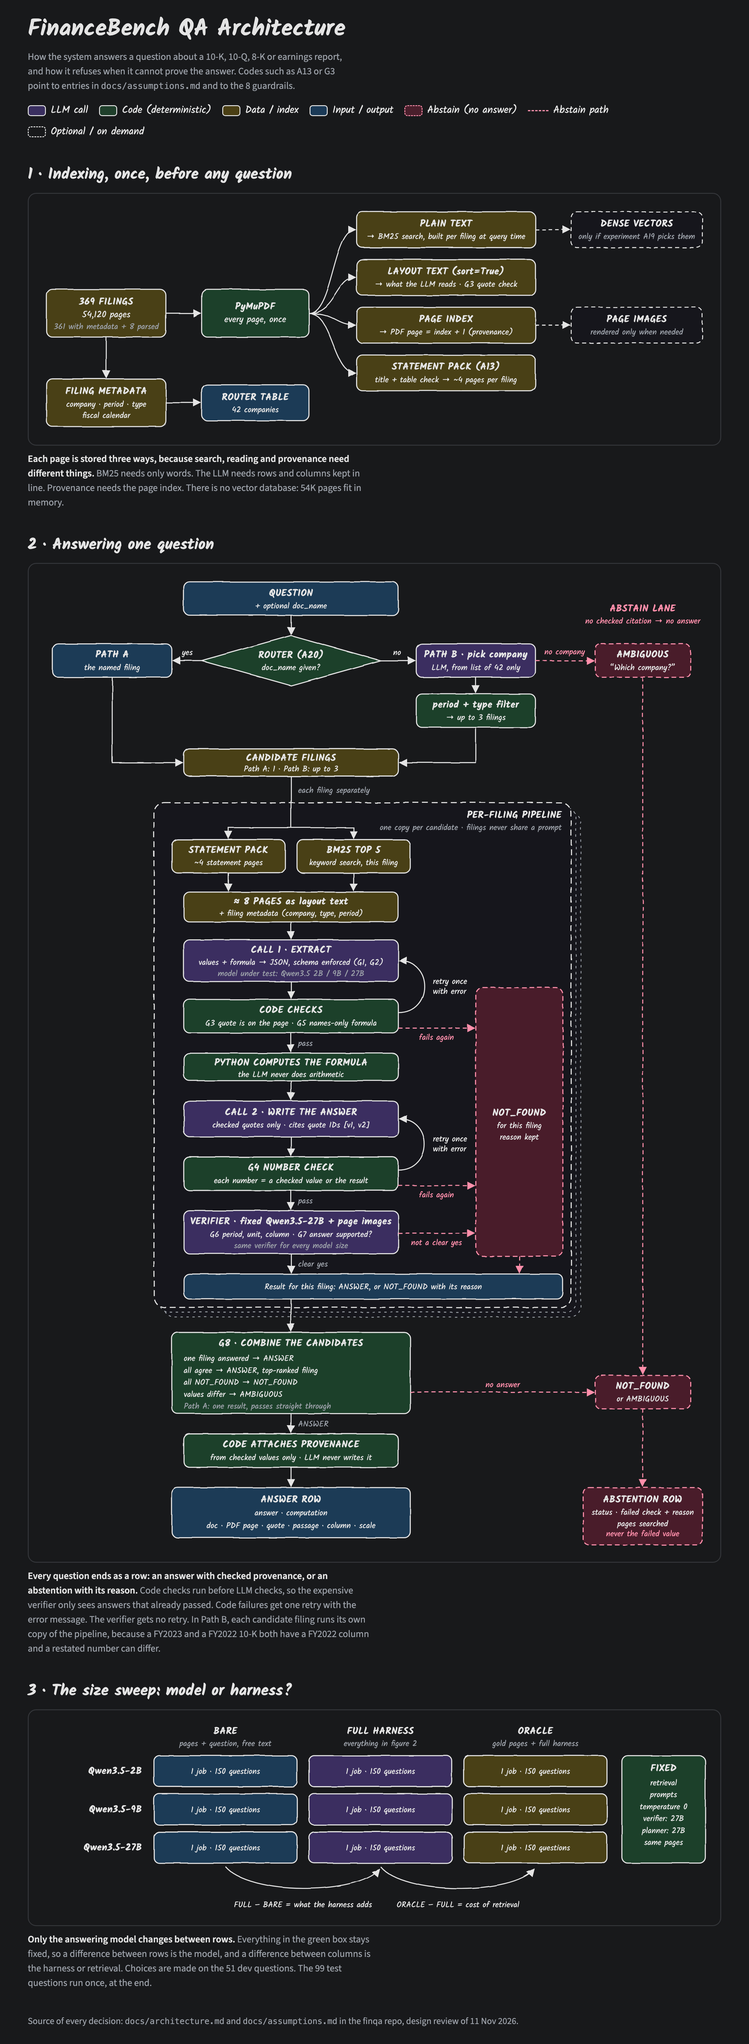
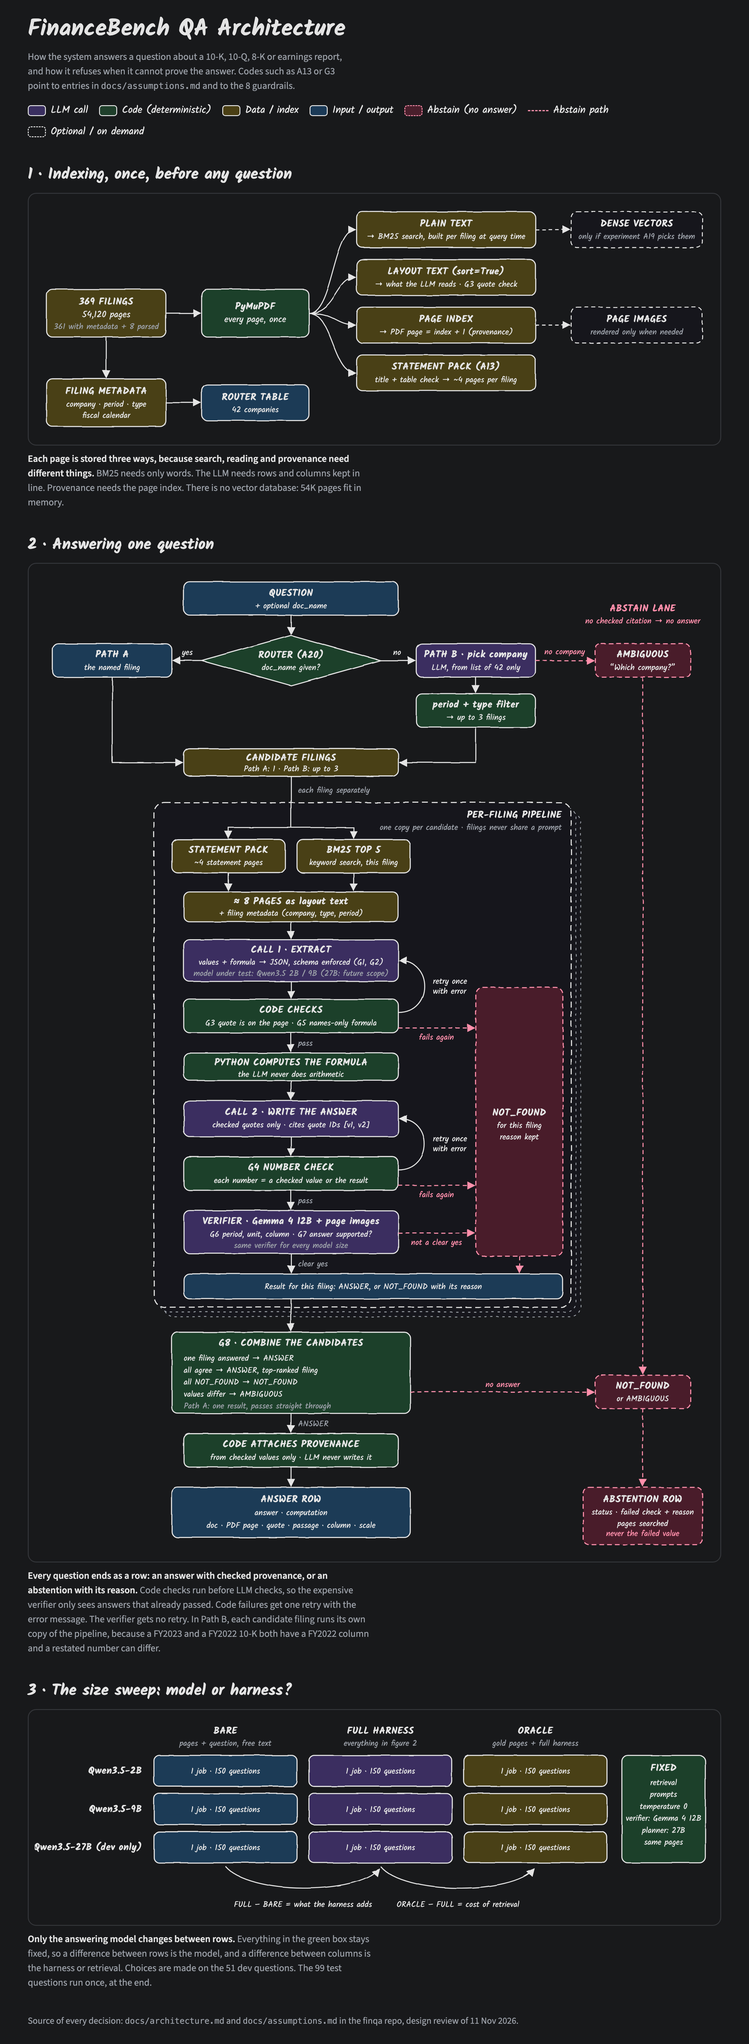
README with full results, 2-page write-up, diagram updated for Gemma verifier and 2B/9B scope

diff --git a/docs/diagrams/architecture.html b/docs/diagrams/architecture.html
@@ -146,7 +146,7 @@ code{font-family:ui-monospace,SFMono-Regular,Menlo,monospace;font-size:.9em}
   <figure>
     <h2>2 · Answering one question</h2>
     <div class="scroll">
-    <svg class="dia" viewBox="0 0 1140 1652" role="img" aria-label="A question goes through the router to up to three candidate filings. Each filing runs its own pipeline: retrieval, call 1 extracts values and a formula, code checks quotes and the formula, Python computes, call 2 writes the answer, code checks the numbers, a fixed 27B verifier checks against page images. Any failure leads to NOT_FOUND for that filing. G8 combines the filings. Code attaches the provenance to an answer. Abstentions produce a row with the reason and never the failed value.">
+    <svg class="dia" viewBox="0 0 1140 1652" role="img" aria-label="A question goes through the router to up to three candidate filings. Each filing runs its own pipeline: retrieval, call 1 extracts values and a formula, code checks quotes and the formula, Python computes, call 2 writes the answer, code checks the numbers, a fixed verifier checks against page images. Any failure leads to NOT_FOUND for that filing. G8 combines the filings. Code attaches the provenance to an answer. Abstentions produce a row with the reason and never the failed value.">
       <defs>
         <filter id="rg2" x="-3%" y="-3%" width="106%" height="106%"><feTurbulence type="fractalNoise" baseFrequency="0.022" numOctaves="2" seed="7"/><feDisplacementMap in="SourceGraphic" scale="2.6"/></filter>
         <marker id="ak2" viewBox="0 0 10 10" refX="9" refY="5" markerWidth="8" markerHeight="8" orient="auto-start-reverse"><path class="mk" d="M0,0 L10,5 L0,10 z"/></marker>
@@ -251,7 +251,7 @@ code{font-family:ui-monospace,SFMono-Regular,Menlo,monospace;font-size:.9em}
       <text class="s" x="430" y="580" text-anchor="middle">+ filing metadata (company, type, period)</text>
       <text class="t" x="430" y="642" text-anchor="middle">CALL 1 · EXTRACT</text>
       <text class="s" x="430" y="662" text-anchor="middle">values + formula → JSON, schema enforced (G1, G2)</text>
-      <text class="s m" x="430" y="681" text-anchor="middle">model under test: Qwen3.5 2B / 9B / 27B</text>
+      <text class="s m" x="430" y="681" text-anchor="middle">model under test: Qwen3.5 2B / 9B (27B: future scope)</text>
       <text class="t" x="430" y="743" text-anchor="middle">CODE CHECKS</text>
       <text class="s" x="430" y="764" text-anchor="middle">G3 quote is on the page · G5 names-only formula</text>
       <text class="s" x="668" y="694">retry once</text>
@@ -268,7 +268,7 @@ code{font-family:ui-monospace,SFMono-Regular,Menlo,monospace;font-size:.9em}
       <text class="s" x="668" y="975">with error</text>
       <text class="s r" x="674" y="1052" text-anchor="middle">fails again</text>
       <text class="s m" x="442" y="1062">pass</text>
-      <text class="t" x="430" y="1097" text-anchor="middle">VERIFIER · fixed Qwen3.5-27B + page images</text>
+      <text class="t" x="430" y="1097" text-anchor="middle">VERIFIER · Gemma 4 12B + page images</text>
       <text class="s" x="430" y="1118" text-anchor="middle">G6 period, unit, column · G7 answer supported?</text>
       <text class="s m" x="430" y="1137" text-anchor="middle">same verifier for every model size</text>
       <text class="s r" x="674" y="1132" text-anchor="middle">not a clear yes</text>
@@ -334,7 +334,7 @@ code{font-family:ui-monospace,SFMono-Regular,Menlo,monospace;font-size:.9em}
       <text class="s m" x="840" y="50" text-anchor="middle">gold pages + full harness</text>
       <text class="t" x="180" y="97" text-anchor="end">Qwen3.5-2B</text>
       <text class="t" x="180" y="161" text-anchor="end">Qwen3.5-9B</text>
-      <text class="t" x="180" y="225" text-anchor="end">Qwen3.5-27B</text>
+      <text class="t" x="180" y="225" text-anchor="end">Qwen3.5-27B (dev only)</text>
       <text class="s" x="320" y="97" text-anchor="middle">1 job · 150 questions</text>
       <text class="s" x="320" y="161" text-anchor="middle">1 job · 150 questions</text>
       <text class="s" x="320" y="225" text-anchor="middle">1 job · 150 questions</text>
@@ -348,7 +348,7 @@ code{font-family:ui-monospace,SFMono-Regular,Menlo,monospace;font-size:.9em}
       <text class="s" x="1055" y="116" text-anchor="middle">retrieval</text>
       <text class="s" x="1055" y="136" text-anchor="middle">prompts</text>
       <text class="s" x="1055" y="156" text-anchor="middle">temperature 0</text>
-      <text class="s" x="1055" y="176" text-anchor="middle">verifier: 27B</text>
+      <text class="s" x="1055" y="176" text-anchor="middle">verifier: Gemma 4 12B</text>
       <text class="s" x="1055" y="196" text-anchor="middle">planner: 27B</text>
       <text class="s" x="1055" y="216" text-anchor="middle">same pages</text>
       <text class="s" x="450" y="320" text-anchor="middle">FULL − BARE = what the harness adds</text>

diff --git a/README.md b/README.md
@@ -1,0 +1,179 @@
+# FinanceBench QA with provenance
+
+A question answering system for the 150 FinanceBench questions. For each question it returns an answer, the PDF page it came from, and the quote and passage that support it. If it cannot find and check that evidence, it says so and gives no answer.
+
+The short write-up is [`docs/report.md`](docs/report.md). This README holds the full results. Every answer with its provenance is in [`results/answers.md`](results/answers.md).
+
+## Main result
+
+Official configuration: **Qwen3.5-9B with the full harness**, Path A (the filing is given). Verifier: Gemma 4 12B. Judge: gpt-oss-20b.
+
+| | Correct | Wrong | Refused | Wrong-answer rate |
+|---|---|---|---|---|
+| Qwen3.5-9B, one prompt, same pages ("bare") | 91 | 59 | 0 | 39% |
+| **Qwen3.5-9B, full harness** | **71** | **17** | **62** | **11%** |
+| GPT-4 Turbo, FinanceBench paper, single vector store | 75 | 17 | 58 | 11% |
+
+The harness cut the 9B model's wrong answers from 59 to 17, and coverage fell from 100% to 59%. With this trade, a local 9B model ends up close to the paper's GPT-4 Turbo single-store result. The two rows were graded differently (our judge model against the paper's human labels), so treat this as a rough comparison.
+
+On 290 questions where the filing holds no answer (wrong filing, or the year shifted), the full harness answered 1 time. The bare model answered 20 times.
+
+## How it works
+
+![architecture](docs/diagrams/architecture-light.png)
+
+1. **Index (once).** PyMuPDF reads every page twice: plain text for search, layout text (columns joined with `|`) for the model to read. Pages whose title is a primary financial statement form a "statement pack" for each filing.
+2. **Retrieve.** For the question's filing: the statement pack, plus the top BM25 pages, plus the top pages by dense similarity (Qwen3-Embedding-8B). At most 12 pages.
+3. **Call 1: extract.** The model returns JSON (schema enforced by vLLM): each value it needs, with the page, the exact quote, the column, the period and the scale, plus a formula over the value names.
+4. **Code checks.**
+   - G3: the quote is on that page, and the value is in the quote.
+   - G5: the formula uses only value names and a few functions (avg, sum, cagr, abs, max, min). Python does the arithmetic. The model never does.
+5. **Call 2: answer.** Plain text that cites values as `[v1]`.
+   - G4: every number in the answer must be a checked value or the computed result.
+   - A failed check gets one retry with the error message, then NOT_FOUND.
+6. **Verifier.** A model from a different family (Gemma 4 12B) gets the question, the evidence, the answer and images of the cited pages. It must confirm the period, the unit, the column and the support. Anything other than a clear yes gives NOT_FOUND.
+7. **Output.** ANSWER, NOT_FOUND or AMBIGUOUS. The provenance (filing, PDF page, quote, passage, column, scale) is attached by code from the checked values. The model never writes it. Each row also names the answering model and the verifier.
+
+Path B (no filing given) is built: a router picks up to 3 candidate filings, each runs separately, and G8 combines them (if they disagree, the result is AMBIGUOUS). It was not evaluated, because its planned run used the 27B model (see Limitations).
+
+Every design decision, with its evidence and what happens if it is wrong, is in [`docs/assumptions.md`](docs/assumptions.md) (A1 to A23). The design is in [`docs/architecture.md`](docs/architecture.md), and the run log is in [`docs/IMPLEMENTATION.md`](docs/IMPLEMENTATION.md).
+
+## Evaluation method
+
+- **Split.** 51 dev questions for all tuning and 99 test questions that were run once with the frozen harness. The split is stratified by question type with seed 0 ([`eval/split.json`](eval/split.json)).
+- **Labels.** Correct, wrong or refused. The headline metric is the **wrong-answer rate** (wrong / 150), because a wrong answer costs more than no answer. We also report coverage (answered / 150) and selective accuracy (correct / answered).
+- **Judge.** If the gold answer is a number, code checks it at the gold precision, with unit conversion. Otherwise gpt-oss-20b compares the answer with the gold answer and its justification. The pipeline never sees gold data. A test checks this.
+- **Judge calibration.** Before we trusted the judge, it graded the paper's 2,400 human-labeled answers.
+- **Unanswerable set.** 290 questions made by pairing each question with the wrong filing (150) or by shifting its year (140). The correct output is always NOT_FOUND.
+
+## Results
+
+All numbers come from `python -m finqa.evals.tables` ([`results/tables.md`](results/tables.md), [`results/summary.json`](results/summary.json)). Nothing below is typed by hand.
+
+### Model size × harness (150 questions)
+
+"Bare" = the same retrieved pages and one prompt, without checks. "Oracle" = the gold pages instead of retrieval. "Gloss" = a glossary of financial definitions added to the prompt.
+
+| Model | Setting | Correct | Wrong | Refused | Wrong-answer rate [95% CI] | Coverage | Selective accuracy | Cited page is a gold page | Test only (99): wrong / correct |
+|---|---|---|---|---|---|---|---|---|---|
+| Qwen3.5-9B | bare | 91 | 59 | 0 | 39% [31 to 47] | 100% | 61% | n/a | 38% / 62% |
+| Qwen3.5-9B | **full** | 71 | 17 | 62 | **11% [7 to 17]** | 59% | 81% | 84% | 12% / 45% |
+| Qwen3.5-9B | full + glossary | 61 | 17 | 72 | 11% [7 to 17] | 52% | 78% | 86% | 13% / 39% |
+| Qwen3.5-9B | oracle pages | 71 | 19 | 60 | 13% [7 to 19] | 60% | 79% | 100% | 13% / 48% |
+| Qwen3.5-2B | bare | 73 | 76 | 1 | 51% [43 to 59] | 99% | 49% | n/a | 48% / 51% |
+| Qwen3.5-2B | full | 12 | 2 | 136 | 1% [0 to 3] | 9% | 86% | 79% | 1% / 7% |
+| Qwen3.5-2B | full + glossary | 12 | 0 | 138 | 0% [0 to 0] | 8% | 100% | 83% | 0% / 8% |
+| Qwen3.5-2B | oracle pages | 14 | 5 | 131 | 3% [1 to 7] | 13% | 74% | 100% | 4% / 8% |
+
+### Questions with no answer in the filing (290 per model)
+
+| Model | Setting | False answers | Wrong filing | Shifted year |
+|---|---|---|---|---|
+| Qwen3.5-9B | bare | 20/290 (7%) | 5% | 9% |
+| Qwen3.5-9B | full | 1/290 (0.3%) | 0% | 1% |
+| Qwen3.5-9B | full + glossary | 2/290 (1%) | 1% | 1% |
+| Qwen3.5-2B | bare | 53/290 (18%) | 17% | 20% |
+| Qwen3.5-2B | full | 0/290 (0%) | 0% | 0% |
+| Qwen3.5-2B | full + glossary | 2/290 (1%) | 1% | 0% |
+
+### Where the 9B answers are lost (full harness, 150 questions)
+
+| Stage outcome | Questions |
+|---|---|
+| Answered (all checks passed) | 88 |
+| Extractor: evidence not in the retrieved pages | 18 |
+| Number check (G4) failed twice | 12 |
+| Formula check (G5) failed twice | 12 |
+| Quote check (G3) failed twice | 11 |
+| Verifier rejected | 9 |
+
+### Verifier (Gemma 4 12B) against the judge
+
+These are the answers that passed all code checks, before the verifier. "Leak" = the verifier accepted a wrong answer.
+
+| Run | Checked | Accepted correct | Accepted wrong (leak) | Rejected correct (lost) | Rejected wrong (caught) |
+|---|---|---|---|---|---|
+| 9B full | 97 | 70 | 18 | 1 | 8 |
+| 9B full + glossary | 85 | 61 | 17 | 1 | 6 |
+| 9B oracle | 96 | 72 | 18 | 2 | 4 |
+| 2B full | 18 | 12 | 2 | 1 | 3 |
+| 2B full + glossary | 14 | 12 | 0 | 1 | 1 |
+| 2B oracle | 24 | 14 | 5 | 1 | 4 |
+
+On the 9B full run, the verifier caught 8 of 26 wrong answers and lost 1 correct one. It is cheap and rarely loses a correct answer, but it misses most wrong ones.
+
+### Retrieval (dev, 51 questions, 12-page budget)
+
+| Arm | Gold page recall |
+|---|---|
+| R0 statement pack + BM25 | 84% |
+| **R1 + dense embeddings (used)** | **87%** |
+| R2 + LLM query planning | 87% |
+| R3 all of the above | 90% |
+
+Rule fixed before the results: take the cheapest arm within 5 points of the best. R3 needs an extra LLM call per question, so R1 won.
+
+### Judge calibration (paper's 2,400 human-labeled answers)
+
+| Judge | Agreement | Says correct when humans say wrong | Says wrong when humans say correct |
+|---|---|---|---|
+| **gpt-oss-20b (used)** | 76% | 5.3% | 15% |
+| gpt-oss-120b (reference) | 79% | 5.3% | 15% |
+
+The 20b judge errs on the strict side. Most of the disagreement comes from the paper's refusals, which it labels "incorrect". This does not affect our runs, because our refusals are labeled from the status field without the judge. It also marks about 15% of human-correct answers as wrong, so our correct counts are likely a little low.
+
+### FinanceBench paper baselines (human labels, same 150 questions)
+
+| Paper configuration | Correct | Wrong | Refused | Wrong-answer rate | Coverage |
+|---|---|---|---|---|---|
+| GPT-4 Turbo, oracle | 128 | 22 | 0 | 15% | 100% |
+| GPT-4 Turbo, single store | 75 | 17 | 58 | 11% | 61% |
+| GPT-4 Turbo, shared store | 29 | 20 | 101 | 13% | 33% |
+| GPT-4, single store | 63 | 16 | 71 | 11% | 53% |
+| Llama 2, single store | 62 | 81 | 7 | 54% | 95% |
+
+## What worked
+
+- **Code does the arithmetic, and code attaches the provenance.** Each ANSWER carries a quote that exists on the cited page. On the 9B run, 84% of answers cite a gold page, and 100% cite the right filing.
+- **Checks between the model and the user.** The 9B wrong-answer rate fell from 39% to 11%, and false answers on unanswerable questions fell from 20 to 1.
+- **The statement pack.** Most FinanceBench evidence sits on the income statement, the balance sheet or the cash flow statement. Always showing those pages gave 84% recall before any learned retrieval.
+- **A dev/test split with rules written before the results.** The test numbers (12% wrong for 9B) match the full set (11%), so tuning on dev did not overfit.
+
+## What did not work
+
+- **Retrieval is not the bottleneck.** With the gold pages (oracle), 9B gets the same 71 correct answers. The losses are in reading and reasoning: 35 questions fail a code check twice, and 18 more fail at extraction.
+- **The 2B model is too weak for strict checks.** It answers only 9% of questions. Those answers are almost always right, but the system is close to useless at that coverage.
+- **The glossary hurt.** Coverage fell from 59% to 52%, and the wrong count stayed the same.
+- **The verifier misses most wrong answers.** Of the 17 wrong 9B answers, most are not reading errors. They are definition choices: working capital from total instead of operating current assets, a different quick ratio, capex/revenue instead of assets/revenue for capital intensity. Others are judgment questions where the model's yes/no differs from the analyst's. A verifier that only checks the cited page cannot catch a valid number that answers a different definition.
+- **Judge strictness.** At least one "wrong" answer is a judge error: General Mills free cash flow, 3,215.4 against gold "$3215.00". We kept the judge's label.
+
+## What to change next
+
+1. **Definitions.** When a question names a metric with more than one common definition, the system should state the definition it used, or ask. The glossary tried to fix the definition in advance and failed. Showing the choice to the user is better.
+2. **A stronger verifier** that also checks the formula against the question, not only the page values. Most of the remaining wrong answers come from the formula.
+3. **Fewer losses at the checks.** 35 questions fail a code check twice. A third retry with the full error history, or a larger model on retry only, would recover some of them.
+4. **Evaluate Path B.** It is built, but it has no numbers yet.
+
+## Limitations and compute
+
+The work ran on Georgia Tech PACE ICE with a student allocation. 80 GB GPUs (H100, H200, A100-80GB) waited in the queue for more than a day, so we changed the plan:
+
+- **No 27B results.** Qwen3.5-27B (about 54 GB in bf16) does not fit on the 47 GB Blackwell GPUs that were free. Only dev round 1 has 27B numbers. They are in [`docs/IMPLEMENTATION.md`](docs/IMPLEMENTATION.md) and are not comparable with the final runs.
+- **A smaller verifier and judge.** Gemma 4 12B replaced the planned Qwen3.5-27B verifier. A non-Qwen verifier is a better design, because it does not share the answering model's errors. gpt-oss-20b replaced gpt-oss-120b as the judge, and its calibration is shown above.
+- **One seed, temperature 0.** No variance across seeds.
+
+**With more compute:** run 27B or larger as the answering model, a larger verifier with reasoning turned on, the 120b judge, Path B, and several seeds. The harness does not change for any of this: each model is a setting of the job script.
+
+## Reproduce
+
+```bash
+scripts/fetch_data.sh                    # FinanceBench clone into data/
+python -m finqa.cli embed                # page vectors (GPU)
+./pace/submit.sh final                   # pass 1 for each run, on ICE (see pace/)
+# verifier and judge: pace/job.sbatch with MODEL=google/gemma-4-12B-it / openai/gpt-oss-20b
+python -m finqa.evals.publish --main all-9b-full --runs ...
+python -m finqa.evals.tables > results/tables.md
+pytest -q                                # 31 tests, including the gold-leakage guard
+```
+
+Code layout: `finqa/` (pipeline: parse, retrieve, answer, checks, formula, verify), `finqa/evals/` (judge, metrics, tables, the only module that reads gold data), `pace/` (Slurm and vLLM scripts), `runs/` (every model output, JSONL).

diff --git a/docs/report.md b/docs/report.md
@@ -1,0 +1,69 @@
+# FinanceBench QA with provenance: write-up
+
+Code, full results and all 150 answers with provenance: **https://github.com/moriowen/finqa** (README, and `results/answers.md`).
+
+## Goal
+
+The system answers questions about SEC filings and returns the PDF page, the quote and the passage behind each answer. I set one priority before the design work: a wrong answer is worse than no answer. If the system cannot point to checked evidence, it returns NOT_FOUND with the reason. I measure success by the **wrong-answer rate** first and coverage second.
+
+## System design
+
+The design separates what the model is good at (reading a page, choosing values) from what code does reliably (finding text, arithmetic, attaching citations).
+
+1. **Parsing.** PyMuPDF stores each page twice: plain text for search, and layout text that keeps table rows and columns for the model to read. Pages whose title is a primary statement (income statement, balance sheet, cash flows) form a per-filing **statement pack**. Data analysis of the gold evidence showed that most answers sit on those pages.
+2. **Retrieval.** Statement pack + BM25 + dense embeddings (Qwen3-Embedding-8B) over the given filing, at most 12 pages. On the dev set this reaches 87% gold-page recall. I compared four retrieval options on dev with a decision rule written before the results.
+3. **Extraction (LLM call 1).** JSON enforced by the server: each value with its page, exact quote, column, period and scale, and a formula over value names.
+4. **Code checks.** The quote must be on the page and contain the value. The formula may use only value names and a few functions. **Python does the arithmetic.**
+5. **Answer (LLM call 2).** Plain text that cites `[v1]`. Every number in it must be a checked value or the computed result.
+6. **Verifier.** A model from another family (Gemma 4 12B) sees images of the cited pages and must confirm period, unit, column and support.
+7. **Output.** Code attaches the provenance from the checked values. The model never writes a page number. Each row also names the answering model and the verifier.
+
+Any failed check gets one retry with the error message, then NOT_FOUND. A second path, for questions with no filing named, routes to up to 3 candidate filings and returns AMBIGUOUS if they disagree. It is built but not evaluated.
+
+Every decision is recorded with its evidence and "what changes if this is wrong" in `docs/assumptions.md` (23 entries).
+
+## Evaluation
+
+- 51 dev questions for all tuning; 99 test questions run once with the frozen system.
+- Numeric answers are graded by code. The others are graded by an LLM judge (gpt-oss-20b), which I first calibrated on the paper's 2,400 human-labeled answers (76% agreement; it calls a wrong answer correct 5% of the time).
+- 290 extra questions with no answer in the filing (wrong filing, or year shifted) test whether the system refuses.
+- To separate the model from the harness, each Qwen3.5 size ran three ways: **bare** (same pages, one prompt), **full** harness, and **oracle** (gold pages).
+
+## Results (150 questions)
+
+| Setup | Correct | Wrong | Refused | Wrong-answer rate |
+|---|---|---|---|---|
+| Qwen3.5-9B bare | 91 | 59 | 0 | 39% |
+| **Qwen3.5-9B full harness (official)** | **71** | **17** | **62** | **11%** |
+| Qwen3.5-9B full, gold pages | 71 | 19 | 60 | 13% |
+| Qwen3.5-2B bare | 73 | 76 | 1 | 51% |
+| Qwen3.5-2B full harness | 12 | 2 | 136 | 1% |
+| GPT-4 Turbo, paper, single store (human labels) | 75 | 17 | 58 | 11% |
+
+- **Unanswerable questions:** 9B full gave 1 false answer out of 290 (bare: 20). 2B full gave 0 (bare: 53).
+- **Provenance:** every 9B answer cites the right filing, and 84% cite a gold evidence page.
+- **Held-out test only:** 9B full is 12% wrong, close to the full-set 11%, so tuning on dev did not overfit.
+
+## What worked
+
+- **The harness, more than the model size.** It cut 9B wrong answers by 71% (59 to 17). A local 9B model reaches the same wrong-answer rate and coverage as GPT-4 Turbo in the paper's comparable setup. The judges differ, so this comparison is approximate.
+- **Code for arithmetic and citations.** No answer can cite a quote that is not on its page.
+- **Refusals.** The checks almost never let an answer through when the filing has none.
+
+## What did not work
+
+- **Retrieval was not the limit.** Gold pages give the same 71 correct. The losses happen after retrieval: 35 questions fail a code check twice, and 18 more find no evidence.
+- **Definitions cause most of the remaining wrong answers.** Examples: working capital from total instead of operating items, a different quick ratio, capex/revenue instead of assets/revenue. The numbers are real and correctly cited, so neither the code checks nor the verifier catch them. A glossary of definitions in the prompt did not help (coverage 59% to 52%, same wrong count).
+- **The verifier is weak.** It caught 8 of 26 wrong 9B answers that passed the code checks, and lost 1 correct answer.
+- **2B is too small for strict checks.** Its answers are almost always right, but it answers only 9% of questions.
+
+## What I would change
+
+1. **Show the definition.** When a metric has several common definitions, state the one used or ask the user. This targets the largest group of remaining errors.
+2. **Verify the formula against the question,** not only the values against the page.
+3. **Recover check failures** with a further retry or a larger model only on retry.
+4. **Evaluate Path B** (no filing named).
+
+## Limitations and future scope
+
+The work ran on a student GPU allocation. The 80 GB GPUs stayed in the queue for more than a day, so the final runs used 47 GB GPUs: no 27B answering model, Gemma 4 12B instead of a 27B verifier, and gpt-oss-20b instead of the 120b judge. All runs use one seed. With more compute, I would run 27B and larger answering models, a stronger verifier with reasoning, the larger judge, Path B, and several seeds. The pipeline needs no change for any of these: each model is one setting in the job script.

diff --git a/docs/architecture.md b/docs/architecture.md
@@ -104,7 +104,7 @@ CODE CHECK                                                             A18
   fail → retry call 2 once, then NOT_FOUND
   │
   ▼
-VERIFIER (fixed Qwen3.5-27B, with page images)                         A18
+VERIFIER (Gemma 4 12B, other family, with page images)                A18, A23
   G6 + G7: period_ok, unit_ok, value_in_correct_column, answer_supported
   anything except a clear "yes" → NOT_FOUND
   │
